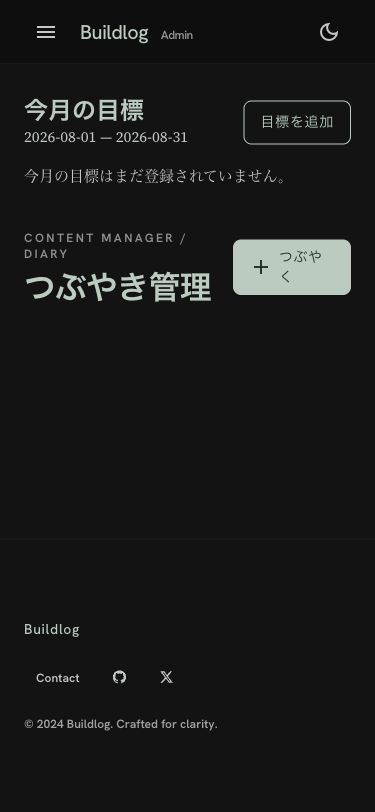
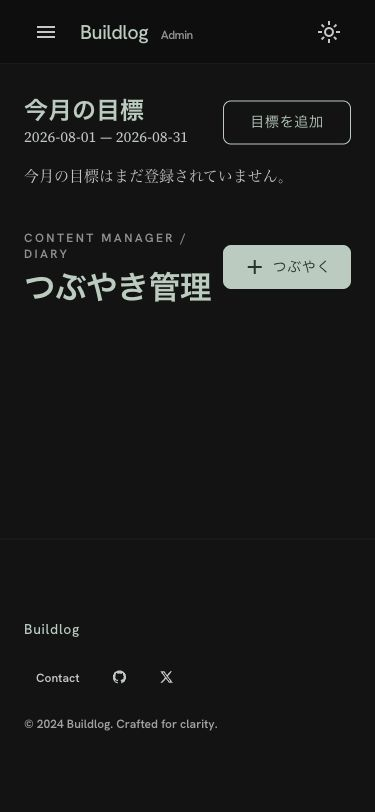
fix: 管理画面の操作ボタンをモバイル向けに調整

diff --git a/web/src/routes/admin/+page.svelte b/web/src/routes/admin/+page.svelte
@@ -99,7 +99,7 @@
 			<h1 id="goals-heading" class="font-headline-lg text-headline-lg text-primary">今月の目標</h1>
 			<p class="font-body-sm text-body-sm text-on-surface-variant">{goals.startsAt} — {goals.endsAt}</p>
 		</div>
-		<button type="button" onclick={() => openGoalDialog()} class="font-label-md text-label-md min-h-11 rounded-lg border border-primary px-4 py-2 text-primary hover:bg-primary hover:text-on-primary">目標を追加</button>
+		<button type="button" onclick={() => openGoalDialog()} class="font-label-md text-label-md inline-flex min-h-11 min-w-32 shrink-0 items-center justify-center whitespace-nowrap rounded-lg border border-primary px-4 py-2 text-primary hover:bg-primary hover:text-on-primary">目標を追加</button>
 	</div>
 	<div class="grid gap-4 md:grid-cols-2">
 		{#each goals.goals as goal (goal.id)}

diff --git a/web/src/lib/components/DiaryFeed.svelte b/web/src/lib/components/DiaryFeed.svelte
@@ -84,10 +84,10 @@
 		{#if isAdmin}
 			<a
 				href={resolve(isAdmin ? '/admin/diary/new' : '/diary/new')}
-				class="font-label-md text-label-md flex min-h-11 cursor-pointer items-center gap-1.5 rounded-lg bg-primary px-4 py-2 text-on-primary transition-all hover:bg-primary/95 active:scale-95"
+				class="font-label-md text-label-md flex min-h-11 min-w-32 shrink-0 cursor-pointer items-center justify-center gap-1.5 rounded-lg bg-primary px-4 py-2 text-on-primary transition-all hover:bg-primary/95 active:scale-95"
 			>
 				<span class="material-symbols-outlined text-[18px]">add</span>
-				つぶやく
+				<span class="whitespace-nowrap">つぶやく</span>
 			</a>
 		{/if}
 	</header>
